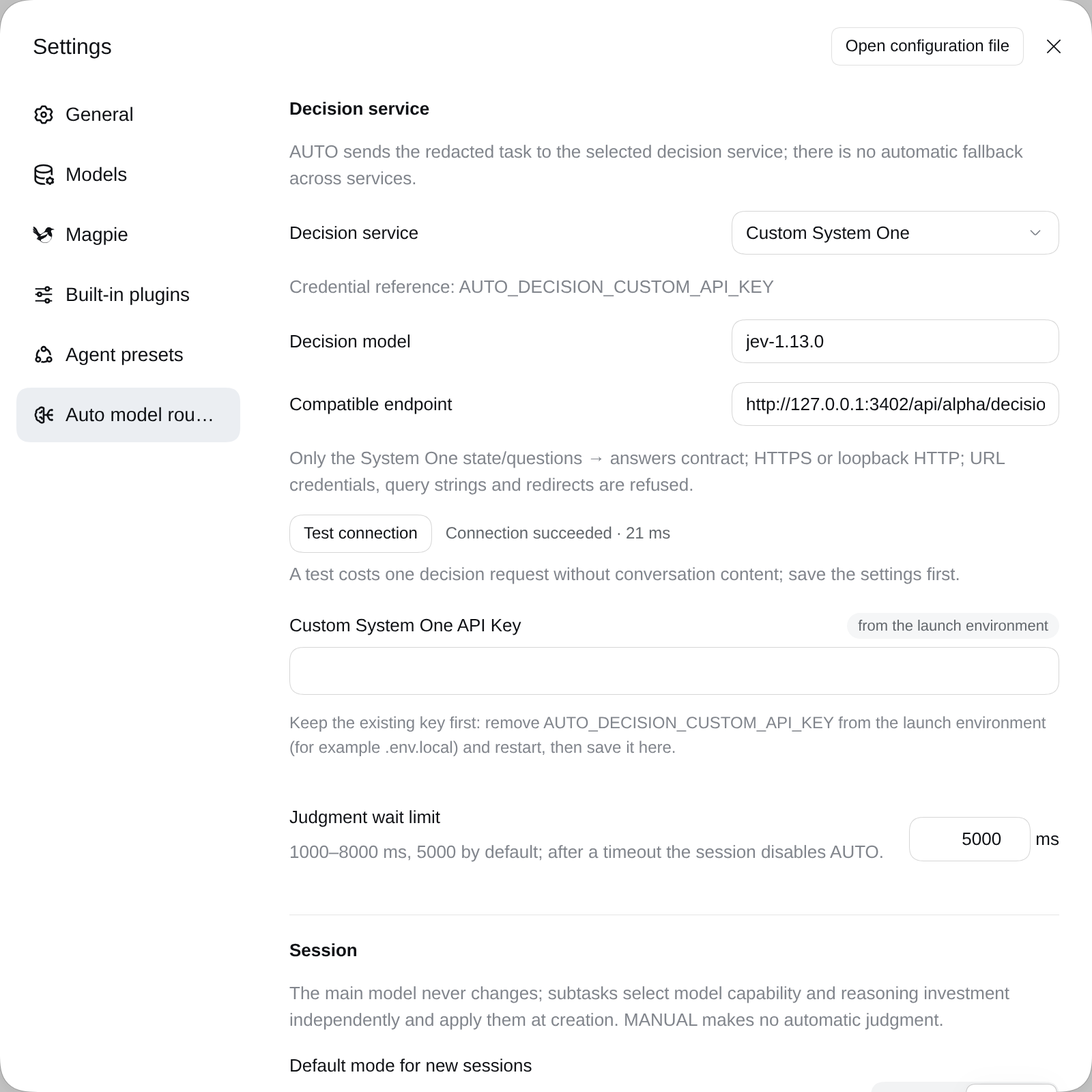
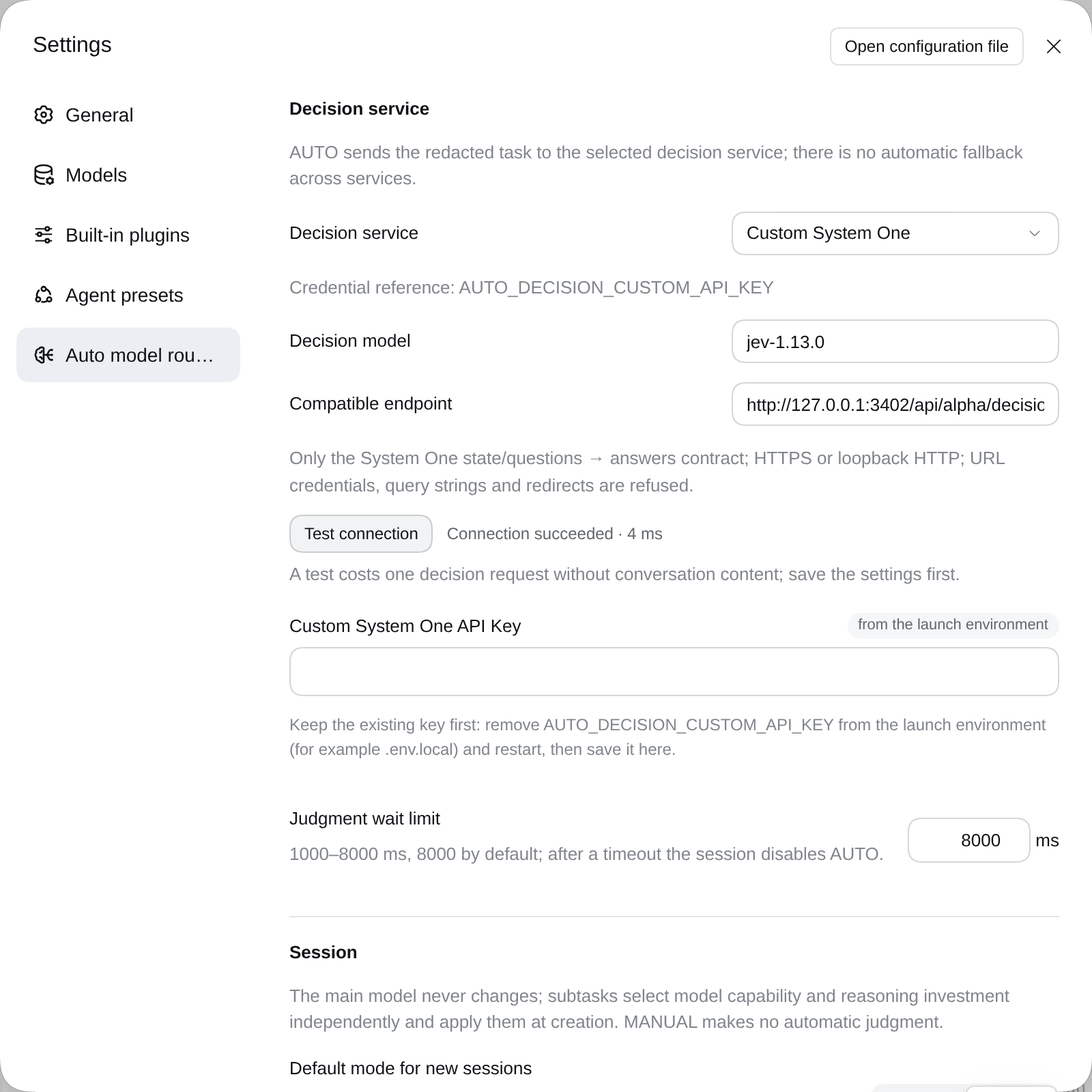
docs(auto-routing): 去旧网关耦合与历史残留，补自定义家族文档并更新商店截图（0.6.6）

diff --git a/packages/dsh-auto-model-routing/src/client/locales.ts b/packages/dsh-auto-model-routing/src/client/locales.ts
@@ -2,12 +2,12 @@
  * Copy dictionaries for the AUTO client UI (composer chip, decision panel,
  * feedback label and the settings section).
  *
- * Same pattern as `dsh-magpie-connector`: the plugin keeps a module-scoped
- * translator instead of threading `t` through every helper, `apply()` binds the
- * host translator once, and before that (unit tests, or a host without a locale
- * service) the Chinese reference set is used so existing tests and behaviour do
- * not change. Placeholders use the host's `{name}` syntax and are interpolated
- * here, so the fallback path and the bound path behave identically.
+ * The plugin keeps a module-scoped translator instead of threading `t`
+ * through every helper, `apply()` binds the host translator once, and before
+ * that (unit tests, or a host without a locale service) the Chinese reference
+ * set is used so existing tests and behaviour do not change. Placeholders use
+ * the host's `{name}` syntax and are interpolated here, so the fallback path and
+ * the bound path behave identically.
  *
  * @module dsh-auto-model-routing/client/locales
  */
@@ -55,7 +55,7 @@ export const en = {
   strategyFamilies: 'Capability mapping of the current sub-models',
   strategyFamilyItem: '{level} → {model} (recommended start {start})',
   strategyCatalogDefault: 'catalog default',
-  strategyTrailer: 'Magpie keeps the family prefix and the real provider and never falls back across entries; model and effort must both pass the current catalog and the official allowlist. Other families need an explicitly named model and a verifiable effort.',
+  strategyTrailer: 'AUTO keeps the family prefix and the real provider and never falls back across entries; model and effort must both pass the current catalog and the official allowlist. Families without a registered strategy need an explicitly named model and a verifiable effort.',
   strategyLimits: 'Constraints, failures and recovery',
   strategyLimitsBody: 'An explicit model or effort wins; when both are given, AUTO only validates and does not ask Jev. When the goal is missing, the catalog is invalid or the capability judgment fails, AUTO stops dispatching instead of silently inheriting or switching models. A failed main judgment visibly disables AUTO. A fresh subtask binds its exact identity when created; later messages and resumes do not re-select a model. fork is not supported yet. MANUAL stops new judgments while already bound subtasks keep their initial route.',
   strategyRules: 'The exact Jev criteria',
@@ -119,7 +119,7 @@ export const en = {
   effortCap: 'Reasoning effort cap',
   autoSection: 'Automatic selection',
   autoIntro: 'The main session only adjusts reasoning investment; subtasks pick a capability tier that fits the goal and scope, then set the investment. Explicitly specified models and effort levels are preserved; there is no automatic retry or escalation.',
-  autoCatalogNote: 'Magpie uses the full model id and the official allowlist; when the catalog is unavailable or the goal is unclear, AUTO stops and says so. fresh subtasks are supported, fork is not.',
+  autoCatalogNote: 'AUTO uses the full model id and the official allowlist; when the catalog is unavailable or the goal is unclear, AUTO stops and says so. fresh subtasks are supported, fork is not.',
   noticeNotRouted: 'The latest subtask was not routed: {reason} (runs on DSH defaults)',
   lockedModel: 'AUTO does not support the current model',
   lockedModelLine: '{provider} / {model} is outside automatic routing and the session switched to MANUAL.',
@@ -202,7 +202,7 @@ export const zh: Record<AutoKey, string> = {
   strategyFamilies: '当前子模型能力映射',
   strategyFamilyItem: '{level} → {model}（推荐起点 {start}）',
   strategyCatalogDefault: '目录默认',
-  strategyTrailer: 'Magpie 保留对应家族前缀与真实 provider，不跨入口回退；模型与 effort 必须同时通过当前目录及官方允许列表校验。其他家族需显式指定模型及可验证投入。',
+  strategyTrailer: 'AUTO 保留对应家族前缀与真实 provider，不跨入口回退；模型与 effort 必须同时通过当前目录及官方允许列表校验。没有注册策略的家族需显式指定模型及可验证投入。',
   strategyLimits: '约束、失败与恢复',
   strategyLimitsBody: '显式指定的模型与投入优先；两者都指定时只校验、不请求 Jev。目标不足、目录失效或子判断失败时停止派发，不偷偷继承或换模。主判断失败则可见停用 AUTO。fresh 子任务创建时绑定精确身份；后续消息和恢复不重新选模。fork 暂不支持。MANUAL 停止新判断，已有绑定子任务仍保持初始路线。',
   strategyRules: 'Jev 实际判据原文',
@@ -266,7 +266,7 @@ export const zh: Record<AutoKey, string> = {
   effortCap: '推理强度上限',
   autoSection: '自动选配',
   autoIntro: '主会话仅调整推理投入；子任务按目标与范围选择合适的能力档，再确定投入。保留显式指定的模型和推理等级，不自动重试或升级。',
-  autoCatalogNote: 'Magpie 使用完整模型 ID 与官方允许列表；目录不可用或目标不清楚时停止并提示。fresh 子任务受支持，fork 暂不支持。',
+  autoCatalogNote: 'AUTO 使用完整模型 ID 与官方允许列表；目录不可用或目标不清楚时停止并提示。fresh 子任务受支持，fork 暂不支持。',
   noticeNotRouted: '最近子任务未路由：{reason}（按 DSH 默认运行）',
   lockedModel: 'AUTO 不支持当前模型',
   lockedModelLine: '{provider} / {model} 不在自动路由支持范围，已切换为 MANUAL。',

diff --git a/packages/dsh-auto-model-routing/README.md b/packages/dsh-auto-model-routing/README.md
@@ -6,7 +6,7 @@ English · [简体中文](README.zh.md)
 
 ![Settings: decision service, compatible endpoint and a successful connection test](docs/settings.en.png)
 
-*Top: an applied AUTO decision with its effort distribution. Bottom: decision service settings with a successful connection test. Captured from an isolated DSH host (English UI) with a local mock decision service and mock model responses; endpoint, account and tasks are synthetic.*
+*Top: an applied AUTO decision with its effort distribution. Bottom: decision service settings with a successful connection test. Captured from an isolated DSH host with a loopback mock decision service and a loopback mock model provider; endpoint, account and tasks are synthetic.*
 
 ![AUTO architecture — independent judgments, validated requests and allocation feedback](docs/architecture-v2.en.svg)
 
@@ -22,11 +22,11 @@ English · [简体中文](README.zh.md)
 | Scenario | AUTO behavior | Current boundary |
 |---|---|---|
 | Main-agent user turn | Judge effort for each new user turn; keep the main model | Not rejudged at every tool step; model must support the effort |
-| Official fresh `subagent` | Select and bind child model + effort before its first request | Real Magpie Claude/GPT ordinary child calls verified; catalog and allowlist apply |
+| Official fresh `subagent` | Select and bind child model + effort before its first request | Ordinary Claude/GPT child calls verified against a live provider; catalog and allowlist apply |
 | Official fresh `spawn_teammate` | Bind the new teammate's model + effort using the same policy | Mock-host coverage; real-provider teammate acceptance remains unverified |
 | Resume or continue a bound child | Replay its initial allocation without rejudging | Requires the plugin enabled and intact route records |
 | Explicit model / effort | Preserve the specified dimension; judge only the other | Both specified: validate without calling Jev |
-| Fork, third-party or unbound creation paths | No automatic-allocation guarantee | Fork and unbound AUTO child paths are explicitly rejected, not silently replaced |
+| Fork, third-party or unbound creation paths | No automatic-allocation guarantee | Unbound children (including fork) pass through untouched; the preview reports fork as unsupported, and AUTO never silently substitutes a route |
 
 This describes official integration paths—not acceptance of every DSH entry point, CLI/TUI interface or third-party plugin. The Web UI is the currently verified interface. MANUAL makes no new judgments. `route_subagent` is a preview, not a required step before dispatch.
 
@@ -44,7 +44,7 @@ dsh plugin --profile web add dsh-auto-model-routing
 dsh plugin --profile web add prgrmrwy/dsh-auto-model-routing
 ```
 
-Restart DSH and refresh the Web page. In **Settings → Auto model routing**, choose a decision service, save its API key, and use **Test connection** with a fixed public sample. These are English descriptions of the controls; the plugin's interface labels are currently in Chinese. New chats default to **MANUAL**; click the chip to use AUTO. The companion delegation skill is included—no separate skill installation is needed.
+Restart DSH and refresh the Web page. In **Settings → Auto model routing**, choose a decision service, save its API key, and use **Test connection** with a fixed public sample. These are English descriptions of the controls; since 0.6.0 the plugin's own labels follow the DSH UI language (Chinese or English). New chats default to **MANUAL**; click the chip to use AUTO. The companion delegation skill is included—no separate skill installation is needed.
 
 ## Use
 
@@ -57,12 +57,12 @@ Restart DSH and refresh the Web page. In **Settings → Auto model routing**, ch
 
 ### Main model stays fixed; children are selected separately
 
-- **Main chat:** `lower / baseline / higher` moves at most one supported effort step below/at/above the model's verified recommended starting point. The cap defaults to `xhigh`; AUTO never selects `max`. It keeps the main provider/model and synchronizes the selected effort through official `selectModel`, which also saves global defaults.
-- **Claude/GPT families only:** AUTO manages models whose id (after any transport prefix) starts with `claude-` or `gpt-`. Selecting any other main model — DeepSeek, GLM, Grok, Gemini, Kimi, Qwen, … — switches the session to MANUAL and locks the chip: it shows an outlined info icon, and hovering the whole button explains the support scope with an issue/PR link to the repository. Switching back to a Claude/GPT model restores a clickable MANUAL chip; AUTO is never re-enabled automatically.
-- **Fresh children:** capability is `bounded / analytical / frontier`; effort is judged separately. Claude slots are Haiku / Sonnet / Opus 5.5; GPT slots are Luna / Sol / Sol. The current catalog, supported efforts and official child allowlist must all permit the route. Magpie uses its exact provider and full family-prefixed model IDs, not a fallback to local transports.
+- **Main chat:** `lower / baseline / higher` moves at most one supported effort step below/at/above the model's verified recommended starting point. The cap defaults to `xhigh`; AUTO never selects `max`. It keeps the main provider/model and synchronizes the selected effort through official `selectModel`, which also saves global defaults. If that sync fails, the turn is logged and the request keeps the official effort; MANUAL requests pass through unchanged and bound children never write the main selection.
+- **Registered families only:** AUTO manages a main model only when its family has a registered strategy; `claude-` and `gpt-` ship built in, and the id is matched after any transport prefix. Selecting any other main model — DeepSeek, GLM, Grok, Gemini, Kimi, Qwen, … — switches the session to MANUAL and locks the chip: it shows an outlined info icon, and hovering the whole button explains the support scope with an issue/PR link to the repository. Switching back to a supported model restores a clickable MANUAL chip; AUTO is never re-enabled automatically. Adding a family is a data change, not an engine change: see [custom model families](#custom-model-families).
+- **Fresh children:** capability is `bounded / analytical / frontier`; effort is judged separately. Claude slots are Haiku / Sonnet / Opus 5.5; GPT slots are Luna / Sol / Sol. The current catalog, supported efforts and official child allowlist must all permit the route. Routes keep the parent's exact provider and full model ids, including any transport prefix; there is no fallback to another provider.
 - **Explicit choices win:** specifying a model or effort leaves only the other dimension to judge. Specifying both skips Jev and validates the route. Missing task scope stops delegation rather than guessing.
-- **Official creation binds the route:** fresh `subagent` and fresh `spawn_teammate` paths bind an exact child identity before its first request. `route_subagent` is an optional preview—not proof of application and not a user constraint to copy into a subsequent call. Fork and unbound creation paths are unsupported; there is no silent substitution.
-- **Resume keeps the initial route.** Switching the root to MANUAL stops new judgments; already bound children retain their initial route. `applied` means the actual request configuration matched, **not** that the task succeeded. Real Magpie Claude/GPT ordinary calls were tested; fresh teammate routing and cold resume have mock-host coverage, not real-provider teammate acceptance.
+- **Official creation binds the route:** fresh `subagent` and fresh `spawn_teammate` paths bind an exact child identity before its first request. `route_subagent` is an optional preview—not proof of application and not a user constraint to copy into a subsequent call; a MANUAL root session makes it return `routed: false` without judging or writing state. Fork and unbound creation paths are unsupported; there is no silent substitution.
+- **Resume keeps the initial route.** Switching the root to MANUAL stops new judgments; already bound children retain their initial route. `applied` means the actual request configuration matched, **not** that the task succeeded. Ordinary Claude/GPT child calls were tested against a live provider; fresh teammate routing and cold resume have mock-host coverage, not real-provider teammate acceptance.
 
 ### Choose the decision service
 
@@ -77,11 +77,38 @@ Preset model menus expose documented versions, not live availability guarantees.
 
 **Certainty is not the selected probability.** Choice certainty is `(pmax − 1/n) / (1 − 1/n)`: with three candidates, a 70% top probability gives 55% certainty. The panel shows the service's returned certainty and full candidate distribution separately, including returned zeroes; missing values are marked unavailable. Neither number is task success rate.
 
-### Magpie transports and picker display
+### Custom model families
 
-AUTO accepts both exact transports, `dsh-magpie-connector` and `dsh-magpie-connect`. They are not aliases: full model ids, live model capabilities, supported effort/caps, the current allowlist and the parent's captured allowlist all retain their exact transport identity. Families without a registered strategy need an explicit model and a verifiable effort. With a MANUAL root session the preview returns `routed: false` without judging or state writes. Already bound children replay their saved route.
+Everything AUTO knows about a model family is data in [`src/strategies/`](src/strategies/index.ts): one file per family plus the `BUILTIN_STRATEGIES` list. Adding DeepSeek, Qwen, Gemini or an in-house family means adding a strategy file and registering it; the engine has no family knowledge of its own and provider is never part of a strategy. AUTO also has no gateway-specific code or configuration, so it works on whatever provider the session already uses.
 
-AUTO applies the selected effort to the current main request and awaits official `selectModel` on the same provider/model when the effort changes. This also updates global defaults; the official picker shows one effort value. MANUAL requests pass through unchanged and bound children never write the main selection. A selection-sync failure is logged while the current request retains its selected effort. Magpie menu grouping still requires ohmydsh's managed five-package Host extension; stock rc.2 keeps a flat list. See [Magpie setup and display requirements](<../dsh-magpie-connector/README.md#model-menu-groups-and-effort>); local tests do not establish deployment or live GUI acceptance.
+| Field | Meaning and constraints |
+|---|---|
+| `id` | Unique family id. Child records and feedback snapshots store it and the usage report groups by it, so renaming an id makes those records unreadable (fail closed). |
+| `label` | Shown in the chip's lock tooltip and in the Settings strategy panel. |
+| `modelPrefixes` | Matched case-insensitively against the main model id after its last `/`, so a gateway's `family/` prefix is not part of the family name. A main model outside every family locks the session to MANUAL. |
+| `effortStarts` | Exact bare model id (case-sensitive) → `low`, `medium`, `high` or `xhigh` recommended starting point for the `lower / baseline / higher` offset and the cap. A model without a start uses the provider directory's default effort when that effort is supported too (the panel labels it "catalog default"); otherwise automatic effort is unavailable, so the main request keeps its own configuration and child routing follows its fallback chain. |
+| `childModels` | One bare model name per capability slot, `bounded` / `analytical` / `frontier`, with no `/`. A slot resolves only inside the parent's provider, only with the parent's transport prefix, and only when exactly one live catalog entry matches. |
+
+`createRegistry` validates the whole list once, when the plugin loads, and rejects the plugin instead of running with part of a family set: a missing or duplicate `id`; prefixes of different families overlapping case-insensitively; a start other than the four values; the same start key in two families; a missing capability slot; a slot containing `/`; any key outside the five fields above.
+
+To add a family, edit the package source — an ohmydsh checkout or your own fork — copying the shape of [`claude.ts`](src/strategies/claude.ts) or [`codex.ts`](src/strategies/codex.ts) (`deepseek-v5` below is a placeholder for an id your provider catalog really exposes):
+
+```ts
+// src/strategies/deepseek.ts
+import type { FamilyStrategy } from './types.js'
+
+export const deepseek = {
+  id: 'deepseek',
+  label: 'DeepSeek',
+  modelPrefixes: ['deepseek-'],
+  effortStarts: { 'deepseek-v5': 'medium' },
+  childModels: { bounded: 'deepseek-v5', analytical: 'deepseek-v5', frontier: 'deepseek-v5' },
+} as const satisfies FamilyStrategy
+```
+
+Then add it to `BUILTIN_STRATEGIES` in [`src/strategies/index.ts`](src/strategies/index.ts), run `npm test`, `npm run typecheck` and `npm run build`, and install the rebuilt package (`dsh build` in ohmydsh, or update the npm dependency) before restarting DSH and refreshing the page. The Settings strategy panel, the lock tooltip, child routing and the usage report all read this registry, so no other file needs family knowledge; the package test fails if built-in family ids or prefix comparisons are repeated outside `src/strategies/`.
+
+A new family changes which main models AUTO manages and which slot models child tasks may pick. It does not add a provider, transport or fallback: every route keeps the parent's provider and full model id, and is still checked against the live catalog, the four effort levels, the `max` prohibition, the official child allowlist and a captured parent allowlist. Explicit model/effort arguments are preserved or validated, never replaced. Family knowledge is build-time only: there is no Settings field, plugin settings file or hot reload for strategies.
 
 ## Good to know
 
@@ -99,7 +126,7 @@ AUTO applies the selected effort to the current main request and awaits official
 
 The diagram at the top shows the AUTO paths. Main failures disable AUTO; child failures stop dispatch. Explicit model/effort constraints are preserved. MANUAL makes no new judgments and fork is unsupported. Feedback does not automatically alter routing.
 
-Entry: [index.ts](src/index.ts). Enforcement: [policy-host.ts](src/policy-host.ts). Actual rubric: [rubric.json](src/rubric.json). Family strategies (supported models, transports, effort starting points, capability slots): [strategies](src/strategies/index.ts); routing: [routing.ts](src/routing.ts). UI: [client](src/client/index.ts). Coverage and limitations (historical records): [development verification](docs/policy-v2-development.md), [real Magpie acceptance](docs/magpie-live-acceptance.md).
+Entry: [index.ts](src/index.ts). Enforcement: [policy-host.ts](src/policy-host.ts). Actual rubric: [rubric.json](src/rubric.json). Family strategies (supported models, effort starting points, capability slots): [strategies](src/strategies/index.ts); routing: [routing.ts](src/routing.ts). UI: [client](src/client/index.ts). Coverage and limitations (historical records): [development verification](docs/policy-v2-development.md), [host capability report](docs/host-capability-report.md).
 
 ## Development
 

diff --git a/packages/dsh-auto-model-routing/README.zh.md b/packages/dsh-auto-model-routing/README.zh.md
@@ -6,7 +6,7 @@
 
 ![设置：决策服务、兼容端点与连接测试成功](docs/settings.png)
 
-*上：已应用的 AUTO 决策与投入分布；下：决策服务设置与连接测试成功。截图来自隔离 DSH 宿主，使用本地模拟 Jev/模型响应与合成任务。*
+*上：已应用的 AUTO 决策与投入分布；下：决策服务设置与连接测试成功。截图来自隔离 DSH 宿主，使用回环模拟决策服务与回环模拟模型 provider；端点、账号与任务均为合成数据。*
 
 ![AUTO 架构：独立判断、请求校验与分配反馈](docs/architecture-v2.zh.svg)
 
@@ -22,11 +22,11 @@
 | 场景 | AUTO 的作用 | 当前边界 |
 |---|---|---|
 | 主 Agent 用户回合 | 每个新用户回合判断 effort，主模型不换 | 不逐工具步骤重判；模型必须支持相应 effort |
-| 官方 fresh `subagent` | 首次请求前选择并绑定子 model + effort | 真实 Magpie Claude/GPT 普通子调用已验证；受目录和允许列表约束 |
+| 官方 fresh `subagent` | 首次请求前选择并绑定子 model + effort | Claude/GPT 普通子调用已在真实模型上验证；受目录和允许列表约束 |
 | 官方 fresh `spawn_teammate` | 按同一策略绑定新 teammate 的 model + effort | 已有 mock 宿主覆盖，尚未完成真实模型 teammate 验收 |
 | 已绑定子实例恢复或继续执行 | 重用初始路线，不重新分配 | 依赖插件保持启用及路由记录完整 |
 | 显式指定 model / effort | 保留已指定维度，仅判断未指定维度 | 两者都指定则只校验，不调用 Jev |
-| fork、第三方或未绑定创建路径 | 不承诺自动选配 | fork 与未绑定 AUTO 子路径会明确拒绝，不静默替代 |
+| fork、第三方或未绑定创建路径 | 不承诺自动选配 | 未绑定子实例（含 fork）原样放行；预览工具对 fork 返回不支持，AUTO 不会静默替换成别的路由 |
 
 这里是官方接入路径的覆盖说明，不代表所有 DSH 入口、CLI/TUI 界面或第三方插件都已验收。Web UI 是当前验证入口；MANUAL 不做新判断。`route_subagent` 仅预览，不是必须先调用的派发步骤。
 
@@ -57,12 +57,12 @@ dsh plugin --profile web add prgrmrwy/dsh-auto-model-routing
 
 ### 主模型不换，子任务独立选配
 
-- **主会话**：`lower / baseline / higher` 相对于具体模型已验证的推荐起点，在受支持序列降低一档、保持或提高一档。缺省上限 `xhigh`，自动不选 `max`；主 provider/model 不变；通过官方 `selectModel` 同步选定 effort，同时保存全局默认值。
-- **仅支持 Claude / GPT 系列**：AUTO 只管理模型名（去掉 transport 前缀后）以 `claude-` 或 `gpt-` 开头的主模型。切换到其他主模型（DeepSeek、GLM、Grok、Gemini、Kimi、Qwen 等）会自动落为 MANUAL 并锁定芯片：芯片显示描边 info 图标，悬停整个按钮说明支持范围并提供仓库的 issue/PR 链接。切回 Claude / GPT 系列后芯片恢复可点击且保持 MANUAL，不会自动重新启用 AUTO。
-- **fresh 子任务**：能力需求为 `bounded / analytical / frontier`，推理投入独立判断。Claude 能力槽为 Haiku / Sonnet / Opus 5.5；GPT 为 Luna / Sol / Sol。实际路由必须同时满足当前目录、支持的 effort 和官方子智能体允许列表。Magpie 保留真实 provider 与家族前缀完整模型 ID，不回退到本地入口。
+- **主会话**：`lower / baseline / higher` 相对于具体模型已验证的推荐起点，在受支持序列降低一档、保持或提高一档。缺省上限 `xhigh`，自动不选 `max`；主 provider/model 不变；通过官方 `selectModel` 同步选定 effort，同时保存全局默认值。同步失败会记录告警，本次请求保留官方原有 effort；MANUAL 请求原样通过，已绑定子会话不写主选择。
+- **只管理已注册家族**：主模型的家族有注册策略时 AUTO 才接管；内置 `claude-` 与 `gpt-` 两个家族，id 在去掉 transport 前缀后匹配。切换到其他主模型（DeepSeek、GLM、Grok、Gemini、Kimi、Qwen 等）会自动落为 MANUAL 并锁定芯片：芯片显示描边 info 图标，悬停整个按钮说明支持范围并提供仓库的 issue/PR 链接。切回受支持模型后芯片恢复可点击且保持 MANUAL，不会自动重新启用 AUTO。新增家族属于数据变更而非引擎变更，见[自定义模型家族](#自定义模型家族)。
+- **fresh 子任务**：能力需求为 `bounded / analytical / frontier`，推理投入独立判断。Claude 能力槽为 Haiku / Sonnet / Opus 5.5；GPT 为 Luna / Sol / Sol。实际路由必须同时满足当前目录、支持的 effort 和官方子智能体允许列表。路由保留父会话精确 provider 与完整 model ID（含 transport 前缀），不回退到其它 provider。
 - **尊重显式选择**：只指定模型或投入时，仅判断另一维；两者都指定则不请求 Jev，只校验路由。缺少任务目标或范围时停止委派，不猜。
-- **官方创建绑定路由**：fresh `subagent` 和 fresh `spawn_teammate` 在子任务首次请求前绑定精确身份。`route_subagent` 只是可选预览，不代表已应用，也不能把推荐复制成用户约束。fork 和未绑定创建路径暂不支持，不静默替换。
-- **恢复保持初始路线**：根会话改为 MANUAL 后停止新判断，已有绑定子实例维持原路线。`applied` 只证明实际请求配置匹配，**不代表任务成功**。真实 Magpie Claude/GPT ordinary 调用已验证；fresh teammate 路由及冷恢复有 mock 宿主覆盖，不等于真实模型 teammate 已验收。
+- **官方创建绑定路由**：fresh `subagent` 和 fresh `spawn_teammate` 在子任务首次请求前绑定精确身份。`route_subagent` 只是可选预览，不代表已应用，也不能把推荐复制成用户约束；根会话为 MANUAL 时它直接返回 `routed: false`，不判断、不写状态。fork 和未绑定创建路径暂不支持，不静默替换。
+- **恢复保持初始路线**：根会话改为 MANUAL 后停止新判断，已有绑定子实例维持原路线。`applied` 只证明实际请求配置匹配，**不代表任务成功**。Claude/GPT 普通子调用已在真实模型上验证；fresh teammate 路由及冷恢复有 mock 宿主覆盖，不等于真实模型 teammate 已验收。
 
 ### 选择决策服务
 
@@ -77,11 +77,38 @@ dsh plugin --profile web add prgrmrwy/dsh-auto-model-routing
 
 **判定确定度不等于选中概率**：Choice 公式为 `(pmax − 1/n) / (1 − 1/n)`，三个候选中最高概率 70% 对应确定度 55%。面板分别显示服务返回的确定度和完整分布，保留返回的 0%，缺值标未提供。两者都不是任务成功率。
 
-### Magpie transport 与选择器展示
+### 自定义模型家族
 
-AUTO 接受 `dsh-magpie-connector`、`dsh-magpie-connect` 两个精确 transport，不互为 alias：完整 model id、实时模型能力、支持 effort/cap、当前允许列表与父 captured allowlist 都按原 transport 校验。没有注册策略的家族需显式 model 及可验证的 effort。根会话为 MANUAL 时预览直接返回 `routed: false`，不判断、不写状态。已绑定子实例恢复原路线。
+AUTO 关于一个模型家族的全部知识都是 [`src/strategies/`](src/strategies/index.ts) 中的数据：每个家族一个文件，加一张 `BUILTIN_STRATEGIES` 列表。接入 DeepSeek、Qwen、Gemini 或自研家族，就是新增一个策略文件并注册；引擎本身不认识任何家族，provider 也从不写进策略。AUTO 也没有任何网关专属代码或配置，会话当前使用哪个 provider 就在哪个 provider 上工作。
 
-AUTO 将选定 effort 应用于本次主请求；effort 改变时，等待官方 `selectModel` 同步同一 provider/model，并允许保存全局默认值。官方选择器只显示一个 effort。MANUAL 请求原样通过，已绑定子会话不写主选择；同步失败会记录告警，本次请求仍保留选定 effort。Magpie 菜单分组仍需 ohmydsh 受管五包 Host 扩展，stock rc.2 保持 flat 列表。见 [Magpie 配置与展示前提](<../dsh-magpie-connector/README.zh.md#模型菜单分组与-effort>)；本地测试不等于已部署或 live GUI 验收。
+| 字段 | 含义与约束 |
+|---|---|
+| `id` | 家族 id，全局唯一。子路由记录与反馈快照都会保存它，用量报告也按它分组，改名会让这些旧记录读不出来（fail closed）。 |
+| `label` | 显示在芯片锁定提示与设置页策略面板。 |
+| `modelPrefixes` | 与主模型 id 最后一个 `/` 之后的部分做大小写不敏感的前缀匹配，网关的 `family/` 前缀不算家族名。不属于任何家族的主模型会把会话锁为 MANUAL。 |
+| `effortStarts` | 精确裸模型 id（区分大小写）→ `low`、`medium`、`high` 或 `xhigh` 推荐起点，供 `lower / baseline / higher` 偏移与上限计算。没有起点的模型，在该 effort 也受支持时改用目录默认 effort（面板标「目录默认」）；两者都不可验证时自动 effort 不可用：主请求保持自身配置，子任务路由走退化链。 |
+| `childModels` | 每个能力槽一个裸模型名，`bounded` / `analytical` / `frontier`，不能含 `/`。只有位于父会话 provider 内、与父模型 transport 前缀相同、且目录中恰好匹配到一条时，槽位才生效。 |
+
+`createRegistry` 在插件加载时一次性校验整张列表，任何冲突都会让插件加载失败、不会以部分策略运行：`id` 缺失或重复；不同家族的 `modelPrefixes` 忽略大小写后互为前缀；起点不属于四个取值；同一模型起点键出现在两个家族；缺少某个能力槽；槽位含 `/`；出现上述五个字段以外的键。
+
+新增家族需要改包源码（ohmydsh 检出或你自己的 fork），照 [`claude.ts`](src/strategies/claude.ts) 或 [`codex.ts`](src/strategies/codex.ts) 的形状写文件（下面的 `deepseek-v5` 只是占位，须换成 provider 目录真实存在的 id）：
+
+```ts
+// src/strategies/deepseek.ts
+import type { FamilyStrategy } from './types.js'
+
+export const deepseek = {
+  id: 'deepseek',
+  label: 'DeepSeek',
+  modelPrefixes: ['deepseek-'],
+  effortStarts: { 'deepseek-v5': 'medium' },
+  childModels: { bounded: 'deepseek-v5', analytical: 'deepseek-v5', frontier: 'deepseek-v5' },
+} as const satisfies FamilyStrategy
+```
+
+再把 `deepseek` 加进 [`src/strategies/index.ts`](src/strategies/index.ts) 的 `BUILTIN_STRATEGIES`，运行 `npm test`、`npm run typecheck`、`npm run build`，装回重建后的包（ohmydsh 用 `dsh build`，或更新 npm 依赖），重启 DSH 并刷新页面。设置页策略面板、芯片锁定提示、子任务路由与用量报告都读这张注册表，因此其它文件不需要任何家族知识；若在 `src/strategies/` 之外重复内置家族 id 或前缀判断，包内测试会失败。
+
+新家族改变的是「AUTO 管哪些主模型」和「子任务可以挑哪些槽位模型」，不会新增 provider、transport 或回退路径：所有路由仍保持父会话 provider 与完整 model id，并且照旧逐条通过实时目录、四档 effort、禁用 `max`、官方子智能体允许列表与父会话 captured allowlist 校验；显式 model/effort 只保留或校验，绝不替换。家族知识只在构建期生效：设置页没有对应输入项，插件也没有策略文件或热加载。
 
 ## 须知
 
@@ -99,7 +126,7 @@ AUTO 将选定 effort 应用于本次主请求；effort 改变时，等待官方
 
 顶部的架构图为 AUTO 路径。主判断失败停用 AUTO，子失败停止派发；保留显式 model/effort。MANUAL 不做新判断，fork 暂不支持。反馈不会自动改变路由。
 
-入口：[index.ts](src/index.ts)。执行接入：[policy-host.ts](src/policy-host.ts)。实际判据：[rubric.json](src/rubric.json)。家族策略（支持的模型、transport、effort 起点、能力槽）：[strategies](src/strategies/index.ts)；路由计算：[routing.ts](src/routing.ts)。界面：[client](src/client/index.ts)。覆盖边界（历史记录）：[开发验证](docs/policy-v2-development.md)、[真实 Magpie 验收](docs/magpie-live-acceptance.md)。
+入口：[index.ts](src/index.ts)。执行接入：[policy-host.ts](src/policy-host.ts)。实际判据：[rubric.json](src/rubric.json)。家族策略（支持的模型、effort 起点、能力槽）：[strategies](src/strategies/index.ts)；路由计算：[routing.ts](src/routing.ts)。界面：[client](src/client/index.ts)。覆盖边界（历史记录）：[开发验证](docs/policy-v2-development.md)、[宿主能力核验](docs/host-capability-report.md)。
 
 ## 开发验证
 

diff --git a/packages/dsh-auto-model-routing/docs/SCREENSHOTS.md b/packages/dsh-auto-model-routing/docs/SCREENSHOTS.md
@@ -2,7 +2,7 @@
 
 | file | kind | source | date | reviewer | verdict | note |
 | --- | --- | --- | --- | --- | --- | --- |
-| auto-routing.png | screenshot | frame 5 of the 2026-10-28 recording (isolated DSH_HOME under /tmp, port 3199; current plugin UI with local loopback mock Jev and model streaming responses; Playwright/CDP lossless 2x screenshots), exported losslessly from the global-palette GIF | 2026-10-29 | lead | pass (reviewed frame: synthetic task/reply and decision panel; no real credentials or user data) | 1840x1600, 245191 bytes; applied same-model medium → high decision with the returned effort distribution; replaces auto-routing.gif because the plugin store does not show GIFs by default |
-| settings.png | screenshot | frame 3 of the same 2026-10-28 recording (lossless 2x screenshots box-filtered to 1137x1070), exported losslessly from the GIF | 2026-10-29 | lead | pass (reviewed frame: settings dialog, empty key input, synthetic loopback endpoint; no real credentials) | 198719 bytes; decision service, decision model, compatible endpoint and a successful mock connection test; replaces settings.gif |
-| auto-routing.en.png | screenshot | 0.6.2 build in an isolated DSH_HOME (temp HOME/DSH_HOME under /tmp, port 3399) against a loopback mock decision service (port 3402) and a loopback mock Magpie gateway; headless Chrome 156 via agent-browser at deviceScaleFactor 2, region clip 1100x720 | 2026-11-02 | agent (privacy-reviewed; pending lead acceptance) | pass (reviewed: English UI, demo workspace, loopback endpoints, mock models/credentials; no hostname, user, key, path or real session) | 2200x1440, 206193 bytes; AUTO chip in AUTO mode with the panel open on a real applied decision (higher effort, 78% confidence, distribution); English README first image |
-| settings.en.png | screenshot | same 0.6.2 isolated host and mocks (decision service on loopback), settings dialog region 800x800 at deviceScaleFactor 2 | 2026-11-02 | agent (privacy-reviewed; pending lead acceptance) | pass (reviewed: English settings copy, mock decision endpoint and key state; no hostname, user, key, path or real session) | 1600x1600, 237027 bytes; decision service, compatible endpoint and a successful connection test; English README second image |
+| auto-routing.png | screenshot | 0.6.6 build in an isolated DSH_HOME (temp HOME/DSH_HOME under /tmp, port 3399) against a loopback mock decision service (port 3402) and a loopback mock model provider (`demo`, plain-object adapter) serving `claude-opus-5-5`; Chinese UI via browser locale zh-CN, headless Chrome 156 driven by playwright-core over CDP at deviceScaleFactor 2, full window clip 1440x900 | 2026-11-04 | agent (privacy-reviewed; pending lead acceptance) | pass (reviewed: Chinese UI, demo workspace, loopback endpoints, mock model/credentials, synthetic task and reply; no hostname, user, key, path or real session) | 2880x1800, 220670 bytes; AUTO chip in AUTO mode with the panel open on an applied main decision (higher effort, 78% decision confidence, effort distribution) over the mock provider; Chinese README first image |
+| settings.png | screenshot | same 0.6.6 isolated host and mocks (decision service on loopback), settings dialog region 800x800 at deviceScaleFactor 2 | 2026-11-04 | agent (privacy-reviewed; pending lead acceptance) | pass (reviewed: Chinese settings copy, mock loopback service and key state; no hostname, user, key, path or real session) | 1600x1600, 242264 bytes; Custom System One service on a loopback endpoint with a successful test connection and the 8000 ms judgment limit; Chinese README second image |
+| auto-routing.en.png | screenshot | 0.6.6 build in the same isolated DSH_HOME setup, mock decision service and mock `demo` provider; English UI via browser locale en-US, headless Chrome 156 driven by playwright-core over CDP at deviceScaleFactor 2, full window clip 1440x900 | 2026-11-04 | agent (privacy-reviewed; pending lead acceptance) | pass (reviewed: English UI, demo workspace, loopback endpoints, mock model/credentials, synthetic task and reply; no hostname, user, key, path or real session) | 2880x1800, 220635 bytes; AUTO chip in AUTO mode with the panel open on an applied main decision (higher effort, 78% confidence, distribution); English README first image |
+| settings.en.png | screenshot | same 0.6.6 isolated host and mocks (decision service on loopback), settings dialog region 800x800 at deviceScaleFactor 2 | 2026-11-04 | agent (privacy-reviewed; pending lead acceptance) | pass (reviewed: English settings copy, mock loopback endpoint and key state; no hostname, user, key, path or real session) | 1600x1600, 234832 bytes; Custom System One service on a loopback endpoint with a successful connection test; English README second image |

diff --git a/packages/dsh-auto-model-routing/docs/policy-v2-development.md b/packages/dsh-auto-model-routing/docs/policy-v2-development.md
@@ -4,7 +4,7 @@
 
 ## 状态
 
-2026-10-25 用户在最小真实 Magpie 验收后追加授权：AUTO 默认升级，不再要求版本开关。默认配置为内部 policy-v2；显式 legacy 仅供回滚。旧四档配置保留但不参与新策略，MANUAL 不变。已构建部署、通过分离控制进程重启现有3080服务，并在实际GUI验证无版本选择、显示 AUTO 已使用新策略。真实质量/返工/成本对照仍未完成，不宣称性能收益。
+2026-10-25 用户在最小真实网关验收后追加授权：AUTO 默认升级，不再要求版本开关。默认配置为内部 policy-v2；显式 legacy 仅供回滚。旧四档配置保留但不参与新策略，MANUAL 不变。已构建部署、通过分离控制进程重启现有3080服务，并在实际GUI验证无版本选择、显示 AUTO 已使用新策略。真实质量/返工/成本对照仍未完成，不宣称性能收益。
 
 ## 实现入口
 
@@ -54,13 +54,13 @@ node packages/dsh-auto-model-routing/scripts/host-probe-children.mjs "$PROBE_HOM
 
 `.bound` 标记只保存 child ID，不包含任务；路由 JSON 缺失而标记保留时 fail closed。整个插件状态目录（两份记录）同时丢失、或旧版无标记记录丢失，无法检测，不能泛称所有存储丢失都已覆盖。
 
-## Magpie 接入（2026-10-25）
+## 网关接入（2026-10-25）
 
-用户指定实际模型先只经 Magpie，OpenRouter 仅 Jev，不用本地 Claude/codex。v2 支持精确 `dsh-magpie-connect` transport，持久记录保留完整 model ID；自动映射使用 `claude/...` / `codex/...` 家族，不把网关 route 伪装为本地 provider。映射版本为 `capability-slots-2-magpie`，已有完成路由保持原配置；其他网关模型可显式使用，未定义能力槽时不自动猜；未知模型 effort 使用 LLM 目录 defaultEffort，缺失则停止。固定已知家族沿用版本化官方起点。
+用户指定实际模型先只经当时配置的自托管网关，OpenRouter 仅 Jev，不用本地 Claude/codex。v2 支持精确 transport 身份，持久记录保留完整 model ID；自动映射使用 `claude/...` / `codex/...` 家族，不把网关 route 伪装为本地 provider。旧映射版本已有完成路由保持原配置；其他网关模型可显式使用，未定义能力槽时不自动猜；未知模型 effort 使用 LLM 目录 defaultEffort，缺失则停止。固定已知家族沿用版本化官方起点。
 
-当前 legacy catalog 仍不包含 Magpie；持久子路由重放使用独立全量策略目录，避免关闭试验导致既有实例失效。目录/allowlist 校验对精确 provider+model 执行，模型名含斜线只在 v2 网关路径允许，旧配置校验不放宽。
+当前 legacy catalog 仍不包含该网关；持久子路由重放使用独立全量策略目录，避免关闭试验导致既有实例失效。目录/allowlist 校验对精确 provider+model 执行，模型名含斜线只在 v2 网关路径允许，旧配置校验不放宽。
 
-验证：190 测试、类型检查、构建通过；官方工具整链脚本加 `--magpie` 后通过 ordinary/fresh teammate 和全宿主冷恢复（fake adapter/Jev，无外网）。实际 dsh-magpie-connect 0.4.1 源码显示 resolveModel.reasoning 从缓存努力等级构建 defaultEffort；尚未验证在线生成或真实 effort 消费，不把缓存/模拟当实测。
+验证：190 测试、类型检查、构建通过；官方工具整链脚本加网关专用 flag 后通过 ordinary/fresh teammate 和全宿主冷恢复（fake adapter/Jev，无外网）。当时网关插件源码显示 resolveModel.reasoning 从缓存努力等级构建 defaultEffort；尚未验证在线生成或真实 effort 消费，不把缓存/模拟当实测。
 
 ## 回滚与后续
 

diff --git a/packages/dsh-auto-model-routing/docs/policy-v2-real-evaluation-plan.md b/packages/dsh-auto-model-routing/docs/policy-v2-real-evaluation-plan.md
@@ -4,15 +4,15 @@
 
 ## 目的与门槛
 
-下一步不是直接部署，而是在独立评审修复后验证真实子模型质量、耗时与总开销。现有 10 个 Jev 分类样例不是执行任务基准，不能把其标签命中率当任务成功率。不得消耗剩余 Jev 授权来调用其它模型；2026-10-25 用户已授权以最小必要订阅调用验收并本地部署，不再按美元预算审批；仅经 Magpie。当前真实最小验收已完成，完整对照仍未完成，见 [实测记录](magpie-live-acceptance.md)。
+下一步不是直接部署，而是在独立评审修复后验证真实子模型质量、耗时与总开销。现有 10 个 Jev 分类样例不是执行任务基准，不能把其标签命中率当任务成功率。不得消耗剩余 Jev 授权来调用其它模型；2026-10-25 用户已授权以最小必要订阅调用验收并本地部署，不再按美元预算审批；仅经当时的自托管网关。当前真实最小验收已完成，完整对照仍未完成；该次验收记录已随 0.6.6 从发布文档中移除，原文可在 git 历史中检索。
 
 ## 已确认的执行入口（2026-10-25）
 
-用户明确本机网络约束：OpenRouter 仅用于 Jev；实际子模型先只经 Magpie（含其中的 GPT/Claude 等模型）。不调用本地 Claude，不调用本机 codex/subscriptions，也不使用 OpenRouter 执行模型。
+用户明确本机网络约束：OpenRouter 仅用于 Jev；实际子模型先只经当时配置的自托管网关（含其中的 GPT/Claude 等模型）。不调用本地 Claude，不调用本机 codex/subscriptions，也不使用 OpenRouter 执行模型。
 
-本机缓存显示 Magpie DSH provider ID 为 `dsh-magpie-connect`，model ID 例如 `claude/claude-haiku-5-5`、`codex/gpt-6-luna`。缓存只证明曾发现的目录，不证明当前在线可用或实际 effort 生效。
+本机缓存显示当时网关 provider 的 model ID 形如 `claude/claude-haiku-5-5`、`codex/gpt-6-luna`。缓存只证明曾发现的目录，不证明当前在线可用或实际 effort 生效。
 
-**接入进度**：policy-v2 已接入 `dsh-magpie-connect` 精确 provider/model；Claude/GPT 前缀识别能力家族，其他模型只允许显式选用并从当前目录读取 defaultEffort（两维显式时只验证）。没有自动能力槽时停止，不猜、不回退本地入口。旧策略目录不变；已绑定 Magpie 子会话切回 legacy 后仍使用独立目录恢复。190 项测试与 fake-adapter 官方工具全宿主恢复通过，尚未执行真实 Magpie 模型调用。网关插件是已配置模型入口，不修改其源码或上游。
+**接入进度**：policy-v2 已接入当时网关的精确 provider/model；Claude/GPT 前缀识别能力家族，其他模型只允许显式选用并从当前目录读取 defaultEffort（两维显式时只验证）。没有自动能力槽时停止，不猜、不回退本地入口。旧策略目录不变；已绑定子会话切回 legacy 后仍使用独立目录恢复。190 项测试与 fake-adapter 官方工具全宿主恢复通过，尚未执行真实网关模型调用。网关插件是已配置模型入口，不修改其源码或上游。
 
 ## 最小可执行方案
 

diff --git a/README.md b/README.md
@@ -213,7 +213,7 @@ Every enabled entry of `dsh.yaml`, grouped by origin. Third-party items link to 
 - [cockpit-worktree-open-shim](packages/cockpit-worktree-open-shim/README.md) — Connects the cockpit remote editor to Worktree Session's open action.
 - [cockpit-memex-browse-shim](packages/cockpit-memex-browse-shim/README.md) — Connects cockpit port forwarding to the memory card browser.
 - [dsh-collab](packages/dsh-collab/README.md) — Lets existing independent sessions share a collaboration ledger by invitation and wakes members on their next turn.
-- [dsh-auto-model-routing](packages/dsh-auto-model-routing/README.md) — In AUTO, asks the Jev decision model for each turn's tier and adjusts only reasoning effort; any Jev failure turns AUTO off and says why. [Standalone repository](https://github.com/prgrmrwy/dsh-auto-model-routing).
+- [dsh-auto-model-routing](packages/dsh-auto-model-routing/README.md) — In AUTO, keeps the main model and adjusts only its reasoning effort per turn, selects model + effort for fresh sub-agents and shows each decision; a failed judgment turns AUTO off and says why, and model families are data in `src/strategies/`. [Standalone repository](https://github.com/prgrmrwy/dsh-auto-model-routing).
 
 ### Self-developed skills, preset and patch
 
@@ -227,7 +227,7 @@ Every enabled entry of `dsh.yaml`, grouped by origin. Third-party items link to 
 - [add-dsh-plugin](skills/add-dsh-plugin/SKILL.md) — Adds a remote plugin to the manifest, builds it and asks about a restart.
 - [remove-dsh-plugin](skills/remove-dsh-plugin/SKILL.md) — Removes a plugin from the manifest, builds and asks about a restart.
 - [dsh-sandbox-notes](skills/dsh-sandbox-notes/SKILL.md) — Notes on sandbox permissions and the "not strictly wider" error.
-- [subagent-model-routing](packages/dsh-auto-model-routing/skills/subagent-model-routing/SKILL.md) — Calls route_subagent before delegating and passes its model and effort explicitly; pauses and asks on failure.
+- [subagent-model-routing](packages/dsh-auto-model-routing/skills/subagent-model-routing/SKILL.md) — Delegates with the official fresh tools and passes only user- or lead-specified model/effort; route_subagent is an optional preview, and failures pause and ask.
 - [dsh-pet-executor](presets/dsh-pet-executor) — Preset for Pet execution sessions without the global skill provider.
 - [memex-eval-judge](presets/memex-eval-judge) — Minimal native-only preset for the memex selftest judge, with no coding tools.
 - [memex-eval-config](patches/memex-eval-config.yml) — Adds fixed selftest workspace closures without replacing user scope or workspace settings.

diff --git a/packages/dsh-auto-model-routing/CHANGELOG.md b/packages/dsh-auto-model-routing/CHANGELOG.md
@@ -1,5 +1,13 @@
 # Changelog
 
+## 0.6.6 — 2026-11-04
+
+- **UI and docs decoupled from Magpie.** The settings strategy copy now describes AUTO's provider behavior instead of one gateway (`Magpie` → `AUTO` in the EN/ZH dictionaries), and the READMEs no longer contain a Magpie transport section or Magpie-specific acceptance links. Routing logic never referenced Magpie — a package test enforces that model-family knowledge lives only in `src/strategies/` and that nothing else repeats family ids or prefix matching — so this is a copy/documentation release, not a routing change.
+- **Custom model families documented.** Both READMEs gain a "Custom model families" section: the five `FamilyStrategy` fields (`id`, `label`, `modelPrefixes`, `effortStarts`, `childModels`) and their constraints, the registry validation that rejects the whole plugin on conflicts, a worked example, and the build/verify/restart steps. It also states what a new family cannot change: provider, transport, fallback, the four effort levels, the `max` prohibition and the catalog/allowlist gates.
+- **Store screenshots regenerated on the current UI.** Both READMEs' demo images (four PNGs) were re-captured on a 0.6.6 build in an isolated host against a loopback mock decision service and a neutral loopback mock model provider (`demo`), in the matching English and Chinese interfaces, so the first screen no longer shows an old gateway provider id. Sources are registered in [docs/SCREENSHOTS.md](docs/SCREENSHOTS.md).
+- **Residual gateway-specific history removed.** The Magpie-only live-acceptance report and its script are gone, and the two historical hand-over documents that still described that gateway integration were rewritten with neutral wording; the detailed acceptance facts remain in git history. Third-party routing research that analyses the external Magpie project is unchanged, since it is background research rather than AUTO's own integration.
+- **Docs corrected against the implementation.** Fork and other unbound children pass through untouched (only the preview reports fork as unsupported); the interface follows the DSH UI language since 0.6.0 rather than always showing Chinese; family strategies no longer list transport knowledge; the architecture links now point at the current historical reports.
+
 ## 0.6.5 — 2026-11-03
 
 - Jev 判断等待上限默认值改为 8000 ms（原 5000 ms）；允许范围仍为 1000–8000 ms，已显式保存的值保持不变。2026-10-30 实测约 1/20 的判断服务端耗时超过 5 s，而一次超时就会让整个会话停用 AUTO。

diff --git a/README.zh.md b/README.zh.md
@@ -213,7 +213,7 @@ tests/                   仓库级测试
 - [cockpit-worktree-open-shim](packages/cockpit-worktree-open-shim/README.md) — 把驾驶舱的远程编辑器接入 Worktree Session 的打开动作。
 - [cockpit-memex-browse-shim](packages/cockpit-memex-browse-shim/README.md) — 把驾驶舱的端口转发接入记忆卡片浏览。
 - [dsh-collab](packages/dsh-collab/README.md) — 让已有的独立会话通过邀请共享协作台账，并在下一回合唤醒成员。
-- [dsh-auto-model-routing](packages/dsh-auto-model-routing/README.md) — AUTO 下每回合请 Jev 决策模型判档，只调整推理强度；Jev 任何失败即停用 AUTO 并提示原因。[独立仓库](https://github.com/prgrmrwy/dsh-auto-model-routing)。
+- [dsh-auto-model-routing](packages/dsh-auto-model-routing/README.md) — AUTO 下主模型不变、按回合只调整推理投入，并为 fresh 子任务选配模型与投入并展示决策；主判断失败即停用 AUTO 并提示原因，模型家族是 `src/strategies/` 中的数据。[独立仓库](https://github.com/prgrmrwy/dsh-auto-model-routing)。
 
 ### 自研 skill、preset 与 patch
 
@@ -227,7 +227,7 @@ tests/                   仓库级测试
 - [add-dsh-plugin](skills/add-dsh-plugin/SKILL.md) — 把远端插件加入 manifest、build，并在重启前询问。
 - [remove-dsh-plugin](skills/remove-dsh-plugin/SKILL.md) — 从 manifest 移除插件、build，并在重启前询问。
 - [dsh-sandbox-notes](skills/dsh-sandbox-notes/SKILL.md) — 关于 sandbox 权限与「not strictly wider」报错的避坑笔记。
-- [subagent-model-routing](packages/dsh-auto-model-routing/skills/subagent-model-routing/SKILL.md) — 委派前调用 route_subagent 并显式传入模型与 effort；失败时暂停并询问用户。
+- [subagent-model-routing](packages/dsh-auto-model-routing/skills/subagent-model-routing/SKILL.md) — 用官方 fresh 工具委派，只原样传递用户或 lead 指定的模型/effort；route_subagent 只是可选预览，失败时暂停并询问用户。
 - [dsh-pet-executor](presets/dsh-pet-executor) — 不加载全局 skill provider 的 Pet 执行会话 preset。
 - [memex-eval-judge](presets/memex-eval-judge) — memex 自检裁判专用的最小 preset，只含 native 呈现，不带编码工具。
 - [memex-eval-config](patches/memex-eval-config.yml) — 添加固定自检目录的关闭声明，保留用户 scope 与工作区设置。

diff --git a/openspec/changes/auto-routing-policy-and-enforcement/tasks.md b/openspec/changes/auto-routing-policy-and-enforcement/tasks.md
@@ -26,6 +26,6 @@
 ## 4. 验证与交付
 
 - [x] 4.1 执行离线策略案例、Jev 契约、集成与现有全量回归，分别报告三层结果。
-- [ ] 4.2 明确请求模型、次数和额度预算并获准后，小样本验证真实 Jev 输出与实际创建路径；不将 mock 通过当端到端通过。部分完成：真实 Jev 10 次通过、US$0.000344148；2026-10-25 用户追加最小订阅验收与部署授权；Magpie GPT/Claude ordinary 真实生成与确定性oracle通过，见[实测记录](../../../packages/dsh-auto-model-routing/docs/magpie-live-acceptance.md)。真实teammate未验，不标全路径完成。
+- [ ] 4.2 明确请求模型、次数和额度预算并获准后，小样本验证真实 Jev 输出与实际创建路径；不将 mock 通过当端到端通过。部分完成：真实 Jev 10 次通过、US$0.000344148；2026-10-25 用户追加最小订阅验收与部署授权；当时网关下 GPT/Claude ordinary 真实生成与确定性oracle通过；该实测记录已随 auto-model-routing 0.6.6 从发布文档移除，可在 git 历史中检索。真实teammate未验，不标全路径完成。
 - [ ] 4.3 运行保留任务集对照，包含验收返工、分类与执行开销；缺失成本标未知，输出支持范围与回滚说明。
 - [x] 4.4 完成独立评审和严格 OpenSpec 验证，提交默认推广建议；不自动启用、部署或发布。已完成独立审查、修复、聚焦复核 PASS 及严格校验，见[复核记录](review.md)；主会话184测试/完整官方冷恢复通过。仍建议暂不推广，4.2/4.3保留未完成。
